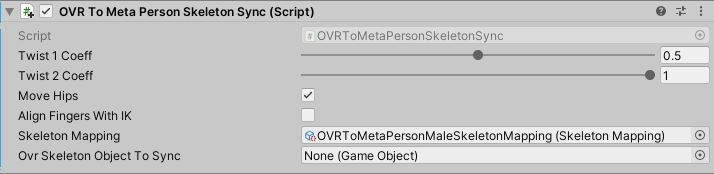
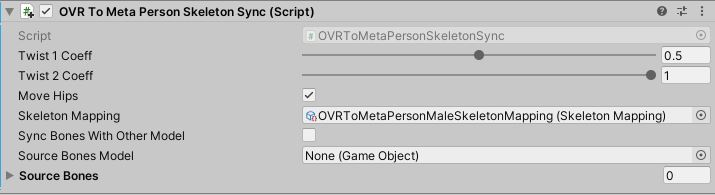
Updated README.md

diff --git a/README.md b/README.md
@@ -29,8 +29,9 @@ Key properties:
 - **Twist 1 Coeff** and **Twist 2 Coeff** impact on skin twist in a region between the forearm and the hand.
 - **Move Hips** specifies if the position of the Hips node is updated. If it is disabled, only rotation is applied to the Hips node.
 - **Skeleton Mapping** specifies the mapping between OVR and MetaPerson skeletons.
-- **OVR Skeleton Object To Sync** contains a game object with the OVR Skeleton structure. If it is specified, MetaPerson avatar's bones positions/rotations are synchronized with bones from this object on each frame, including lower body part.
-See the **MetaPersonQuestHipPinningSample** as an example. Otherwise, the bones positions/rotations are taken from the **OVRBody** component that should be added to the MetaPerson avatar. See the **MetaPersonQuestHandTrackingSample** as an example.
+- **Sync Bones With Other Model** if true, some bones positions are taken from the **Source Bones**. Otherwise, they are provided by the **OVRBody**.
+- **Source Bones Model** contains a game object with the OVR Skeleton structure from which bones to sync are taken.
+- **Source Bones** list of transforms to which bones positions/rotations are synchronized with.
 
 ## Support
 If you have any questions or issues with the sample, please contact us <support@avatarsdk.com>.
